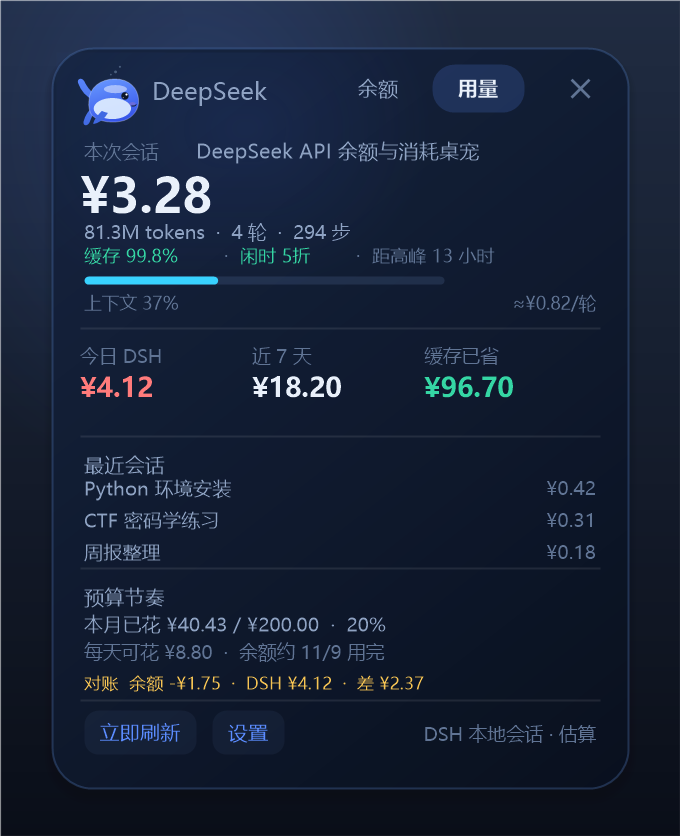
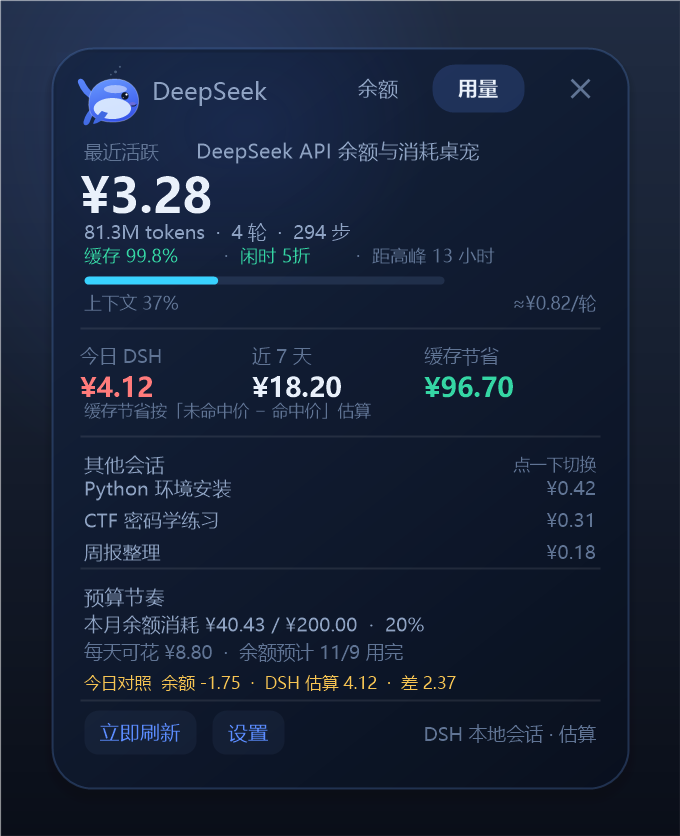
用量页：区分最近活跃与当前查看，支持切换会话

diff --git a/src/TrayApp.cs b/src/TrayApp.cs
@@ -251,6 +251,19 @@ namespace DeepSeekWhale
                     {
                         dshBusy = false;
                         bool first = dsh == null;
+                        if (!string.IsNullOrEmpty(Cfg.ViewSessionId))
+                        {
+                            s.Pinned = false;
+                            foreach (var x in s.Sessions)
+                            {
+                                if (x.Total > 0 && x.Id == Cfg.ViewSessionId)
+                                {
+                                    s.Current = x;
+                                    s.Pinned = true;
+                                    break;
+                                }
+                            }
+                        }
                         dsh = s;
                         if (first)
                             Log.Info("DSH usage sessions=" + s.Sessions.Count + " today=" + s.TodayCost + " err=" + (s.Error ?? "-"));
@@ -570,6 +583,33 @@ namespace DeepSeekWhale
             if (Pet == null || !Pet.Visible) return;
             Pet.SetExpanded(false);
             Pet.EnterCannonMode();
+        }
+
+        public void PinDshSession(string id)
+        {
+            Cfg.ViewSessionId = id ?? "";
+            SaveConfig();
+            if (dsh == null) return;
+            if (!string.IsNullOrEmpty(id))
+            {
+                foreach (var x in dsh.Sessions)
+                {
+                    if (x.Total > 0 && x.Id == id)
+                    {
+                        dsh.Current = x;
+                        dsh.Pinned = true;
+                        RebuildVm();
+                        return;
+                    }
+                }
+            }
+            dsh.Pinned = false;
+            dsh.Current = null;
+            foreach (var x in dsh.Sessions)
+            {
+                if (x.Total > 0) { dsh.Current = x; break; }
+            }
+            RebuildVm();
         }
 
         public void Say(string text, double seconds)

diff --git a/src/PetWindow.cs b/src/PetWindow.cs
@@ -1079,10 +1079,10 @@ namespace DeepSeekWhale
             }
             if (trip == TripPhase.Back) return;
             if (trip != TripPhase.None) CancelTrip(false);
-            HandleClick(HitAt(e.Location));
+            HandleClick(HitAt(e.Location), e.Location);
         }
 
-        void HandleClick(HitArea hit)
+        void HandleClick(HitArea hit, Point client)
         {
             switch (hit)
             {
@@ -1103,6 +1103,9 @@ namespace DeepSeekWhale
                     break;
                 case HitArea.Setup:
                     app.PrimaryAction();
+                    break;
+                case HitArea.Card:
+                    HandleUsageCardClick(client);
                     break;
                 case HitArea.TabBalance:
                     usageTab = false;
@@ -1127,6 +1130,30 @@ namespace DeepSeekWhale
             }
             whaleClickPending = true;
             clickTimer.Start();
+        }
+
+        void HandleUsageCardClick(Point client)
+        {
+            if (!usageTab || app.Vm == null || app.Vm.Dsh == null) return;
+            var dsh = app.Vm.Dsh;
+            var lp = new PointF(client.X / scale, client.Y / scale);
+            if (dsh.Pinned && lp.Y >= 202f && lp.Y <= 218f && lp.X >= 186f)
+            {
+                app.PinDshSession(null);
+                return;
+            }
+            if (lp.Y < 214f || lp.Y > 264f) return;
+            int idx = (int)((lp.Y - 218f) / 16f);
+            if (idx < 0 || idx > 2) return;
+            DshSession target = null;
+            int n = 0;
+            foreach (var s in dsh.Sessions)
+            {
+                if (s.Total <= 0 || s == dsh.Current) continue;
+                if (n == idx) { target = s; break; }
+                n++;
+            }
+            if (target != null) app.PinDshSession(target.Id);
         }
 
         void ShowMenu()

diff --git a/src/Renderer.cs b/src/Renderer.cs
@@ -467,7 +467,7 @@ namespace DeepSeekWhale
             }
 
             var cur = dsh.Current;
-            DrawText(g, "当前会话", F(7f, FontStyle.Regular), Palette.Dimmer, 22f, 50f, 54f, TextAlign.Left);
+            DrawText(g, dsh.Pinned ? "当前查看" : "最近活跃", F(7f, FontStyle.Regular), Palette.Dimmer, 22f, 50f, 54f, TextAlign.Left);
             DrawText(g, Fmt.Truncate(string.IsNullOrEmpty(cur.Title) ? "未命名会话" : cur.Title, 20),
                 F(7.6f, FontStyle.Regular), Palette.Dim, 78f, 49f, 200f, TextAlign.Left);
 
@@ -518,12 +518,20 @@ namespace DeepSeekWhale
 
             Divider(g, 20f, 280f, 198f);
             DrawText(g, "其他会话", F(7.6f, FontStyle.Regular), Palette.Dim, 22f, 206f, 100f, TextAlign.Left);
+            DrawText(g, dsh.Pinned ? "恢复最近" : "点一下切换", F(6.2f, FontStyle.Regular),
+                dsh.Pinned ? Palette.Accent : Palette.Dimmer, 196f, 207f, 82f, TextAlign.Right);
             int shown = 0;
             for (int i = 0; i < dsh.Sessions.Count && shown < 3; i++)
             {
                 var s = dsh.Sessions[i];
                 if (s.Total <= 0 || s == cur) continue;
                 float ry = 218f + shown * 16f;
+                var row = new RectangleF(18f, ry - 2f, 264f, 15f);
+                if (row.Contains(hover))
+                {
+                   using (var b = new SolidBrush(Color.FromArgb(20, 255, 255, 255)))
+                        g.FillPath(b, Rounded(row, 6f));
+                }
                 DrawText(g, Fmt.Truncate(string.IsNullOrEmpty(s.Title) ? "未命名会话" : s.Title, 18),
                     F(7.2f, FontStyle.Regular), Palette.Dim, 22f, ry, 168f, TextAlign.Left);
                 DrawText(g, YuanCost(s.Cost), F(7.2f, FontStyle.Regular), Palette.Dimmer, 200f, ry, 78f, TextAlign.Right);

diff --git a/src/AppConfig.cs b/src/AppConfig.cs
@@ -19,6 +19,7 @@ namespace DeepSeekWhale
         public bool HideWithDsh = true;
         public bool Locked = false;
         public bool Mini = false;
+        public string ViewSessionId = "";
         public string Skin = "blue";
         public bool WaterReminder = true;
         public int WaterIntervalMin = 60;
@@ -82,6 +83,7 @@ namespace DeepSeekWhale
             c.HideWithDsh = HideWithDsh;
             c.Locked = Locked;
             c.Mini = Mini;
+            c.ViewSessionId = ViewSessionId;
             c.Skin = Skin;
             c.WaterReminder = WaterReminder;
             c.WaterIntervalMin = WaterIntervalMin;
@@ -118,6 +120,7 @@ namespace DeepSeekWhale
             d["hideWithDsh"] = HideWithDsh;
             d["locked"] = Locked;
             d["mini"] = Mini;
+            d["viewSessionId"] = ViewSessionId;
             d["skin"] = Skin;
             d["waterReminder"] = WaterReminder;
             d["waterIntervalMin"] = WaterIntervalMin;
@@ -158,6 +161,7 @@ namespace DeepSeekWhale
                 c.HideWithDsh = JsonUtil.Bool(d, "hideWithDsh", true);
                 c.Locked = JsonUtil.Bool(d, "locked", false);
                 c.Mini = JsonUtil.Bool(d, "mini", false);
+                c.ViewSessionId = JsonUtil.Str(d, "viewSessionId", "");
                 c.Skin = JsonUtil.Str(d, "skin", "blue");
                 if (c.Skin != "sakura" && c.Skin != "mint") c.Skin = "blue";
                 c.WaterReminder = JsonUtil.Bool(d, "waterReminder", true);

diff --git a/src/DshUsage.cs b/src/DshUsage.cs
@@ -44,6 +44,7 @@ namespace DeepSeekWhale
     {
         public bool Available;
         public string Error;
+        public bool Pinned;
         public readonly List<DshSession> Sessions = new List<DshSession>();
         public DshSession Current;
         public decimal TodayCost;

diff --git a/README.md b/README.md
@@ -16,7 +16,7 @@
 - **预计可用天数**：按最近 7 天日均消耗估算；没有消耗时显示「长期」，超过一年显示「1 年+」
 - **月预算**（可选）：设置后鲸鱼外围有一圈预算进度环，胶囊里显示「预算 x%」
 - **水炮模式**：右键 →「水炮模式」，点桌面图标，鲸鱼喷水柱把图标冲成水泡飞走，原地留一滩水盖住图标；文件不动，5 秒后水干图标回来
-- **会话账本**：展开面板 →「用量」，看当前会话花费、token、缓存命中、上下文压力、每轮成本、其他会话
+- **会话账本**：展开面板 →「用量」，看最近活跃 / 当前查看的会话花费、token、缓存命中、上下文压力、每轮成本、其他会话；点其他会话可以切换查看
 - **缓存节省**：按官方「未命中价 − 命中价」估算缓存帮你省了多少钱
 - **峰谷顾问**：显示现在闲时/高峰、距切换时间；高峰单价 2 倍
 - **预算节奏**：本月余额消耗/预算、每天可花、余额预计用完日期
@@ -42,7 +42,7 @@
 
 ## 下载
 
-[GitHub Releases](https://github.com/Yinzhanqing/deepseek-whale/releases) 下载 `DeepSeekWhale-v1.1.0-win64.zip`，解压后双击 `安装.cmd`。
+[GitHub Releases](https://github.com/Yinzhanqing/deepseek-whale/releases) 下载 `DeepSeekWhale-v1.1.1-win64.zip`，解压后双击 `安装.cmd`。
 
 也可以从源码构建（见下方「从源码构建」）。
 

diff --git a/CHANGELOG.md b/CHANGELOG.md
@@ -1,5 +1,11 @@
 # Changelog
 
+## v1.1.1
+
+- 用量页明确区分「最近活跃」和「当前查看」：默认按最后一次对话排序，点「其他会话」里的会话可切换查看，点「恢复最近」回到最近活跃
+- 记住手动查看的会话；切换 DSH 窗口不会改变用量页（DSH 本地缓存没有“当前打开”字段）
+- 修复提醒文案乱码（旧版本用 PowerShell 改配置时留下的编码问题）
+
 ## v1.1.0
 
 - 新增水炮模式：准星瞄准桌面图标，水柱把图标冲成水泡飞走，原地留下浅蓝水洼，5 秒后干掉
